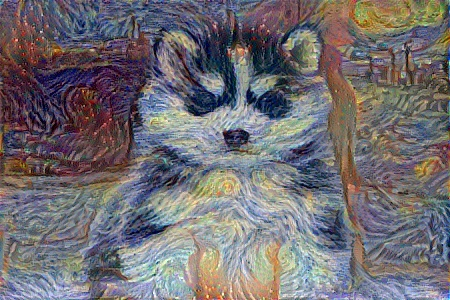
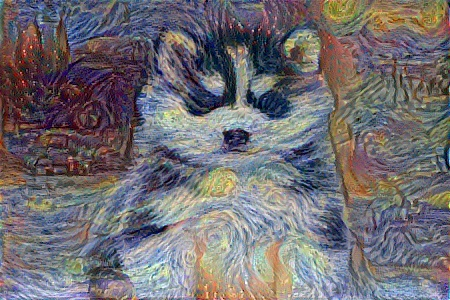
修复图片长、宽颠倒的bug。

diff --git a/keras-bert-emotional-classifier/dataset.py b/keras-bert-emotional-classifier/dataset.py
@@ -1,0 +1,155 @@
+# -*- coding: utf-8 -*-
+# @File    : dataset.py
+# @Author  : AaronJny
+# @Time    : 2020/01/04
+# @Desc    :
+import chardet
+from collections import Counter
+import time
+from bert4keras.tokenizer import Tokenizer, load_vocab
+from bert4keras.snippets import DataGenerator, sequence_padding
+from bert4keras.bert import build_bert_model
+import numpy as np
+import keras
+
+# 预训练的模型参数
+CONFIG_PATH = '/home/aaron/tools/uncased_L-12_H-768_A-12/bert_config.json'
+CHECKPOINT_PATH = '/home/aaron/tools/uncased_L-12_H-768_A-12/bert_model.ckpt'
+DICT_PATH = '/home/aaron/tools/uncased_L-12_H-768_A-12/vocab.txt'
+# 负例样本路径
+NEG_PATH = 'rt-polarity.neg'
+# 正例样本路径
+POS_PATH = 'rt-polarity.pos'
+# 评论最大长度
+MAX_LEN = 256
+# 允许的最小词频
+MIN_WORD_FREQUENCY = 5
+# 数据集划分比例
+TRAIN_SPLIT, DEV_SPLIT = 0.8, 0.1
+
+
+def load_data(path, label):
+    """
+    从给定路径加载数据
+    :param path: 数据路径
+    :param label: 数据标签
+    """
+    # 从文本中读取数据
+    with open(path, 'rb') as f:
+        text_bin = f.read()
+    # 获取文本编码格式
+    encoding = chardet.detect(text_bin)['encoding']
+    # 解码文本
+    text = text_bin.decode(encoding=encoding).lower()
+    # 按行切分数据，并移除超出长度的数据
+    lines = [line for line in text.splitlines()]
+    print(len(lines))
+    _data = []
+    for line in lines:
+        if len(line) <= MAX_LEN - 2:
+            _data.append(line)
+    print(len(_data))
+    _labels = [label] * len(_data)
+    return _data, _labels
+
+
+# 读取全部数据
+all_data, all_labels = [], []
+neg_data, neg_labels = load_data(NEG_PATH, 0)
+all_data.extend(neg_data)
+all_labels.extend(neg_labels)
+pos_data, pos_labels = load_data(POS_PATH, 1)
+all_data.extend(pos_data)
+all_labels.extend(pos_labels)
+# 混洗数据
+seed = int(time.time())
+np.random.seed(seed)
+np.random.shuffle(all_data)
+np.random.seed(seed)
+np.random.shuffle(all_labels)
+# 划分数据集
+samples = len(all_data)
+train_samples = int(samples * TRAIN_SPLIT)
+dev_samples = int(samples * DEV_SPLIT)
+train_data, train_labels = all_data[:train_samples], all_labels[:train_samples]
+dev_data, dev_labels = all_data[train_samples:train_samples + dev_samples], all_labels[
+                                                                            train_samples:train_samples + dev_samples]
+test_data, test_labels = all_data[train_samples + dev_samples:], all_labels[train_samples + dev_samples:]
+
+# 加载预训练模型的词典
+_token_dict = load_vocab(DICT_PATH)
+_tokenizer = Tokenizer(_token_dict, do_lower_case=True)
+print(all_data[0])
+print(_tokenizer.encode(all_data[0]))
+print(_tokenizer.tokenize(all_data[0]))
+print([_tokenizer.id_to_token(21934)])
+print(_tokenizer.token_to_id('[PAD]'))
+
+# 统计数据集中的词频
+counter = Counter()
+for line in all_data:
+    _tokens = _tokenizer.tokenize(line)
+    # 统计词频时，移除[CLS]和[SEP]字符
+    counter.update(_tokens[1:-1])
+print(len(counter))
+# 移除词频较低的词
+_tokens = [token for token, cnt in counter.items() if cnt >= MIN_WORD_FREQUENCY]
+print(len(_tokens))
+# 构建新词典
+_tokens = ['[PAD]', '[UNK]', '[CLS]', '[SEP]'] + _tokens
+keep_words = []
+token_dict = {}
+for token in _tokens:
+    token_dict[token] = len(token_dict)
+    keep_words.append(_token_dict[token])
+# 使用新词典构建分词器
+tokenizer = Tokenizer(token_dict, do_lower_case=True)
+
+
+class MyDataGenerator(DataGenerator):
+
+    def __init__(self, data, labels, batch_size=32):
+        super().__init__(data, batch_size)
+        self.labels = labels
+
+    def __iter__(self, random=True):
+        # 混洗数据
+        if random:
+            seed = int(time.time())
+            np.random.seed(seed)
+            np.random.shuffle(self.data)
+            np.random.seed(seed)
+            np.random.shuffle(self.labels)
+        total = len(self.data)
+        # 迭代整个数据集，每次返回一个mini batch
+        for start in range(0, total, self.batch_size):
+            end = min(start + self.batch_size, total)
+            batch_token_ids = []
+            batch_segment_ids = []
+            for line in self.data[start:end]:
+                _token_ids, _segment_ids = tokenizer.encode(line)
+                batch_token_ids.append(_token_ids)
+                batch_segment_ids.append(_segment_ids)
+            batch_token_ids = sequence_padding(batch_token_ids)
+            batch_segment_ids = sequence_padding(batch_segment_ids)
+            batch_labels = np.reshape(np.array(self.labels[start:end]), (-1, 1))
+            yield [batch_token_ids, batch_segment_ids], batch_labels
+            del batch_labels, batch_token_ids, batch_segment_ids
+
+
+bert_model = build_bert_model(config_path=CONFIG_PATH, checkpoint_path=CHECKPOINT_PATH, keep_words=keep_words)
+# bert_model.trainable = False
+output = keras.layers.Lambda(lambda x: x[:, 0])(bert_model.output)
+output = keras.layers.Dropout(rate=0.5)(output)
+output = keras.layers.Dense(1, activation=keras.activations.sigmoid)(output)
+model = keras.Model(bert_model.input, output)
+model.summary()
+
+train_data_generator = MyDataGenerator(train_data, train_labels)
+dev_data_generator = MyDataGenerator(dev_data, dev_labels)
+test_data_generator = MyDataGenerator(test_data, test_labels)
+
+model.compile(keras.optimizers.Adam(1e-6, decay=1e-4), keras.losses.binary_crossentropy, metrics=['accuracy'])
+model.fit_generator(train_data_generator.forfit(), steps_per_epoch=train_data_generator.steps, epochs=10,
+                    validation_data=dev_data_generator.forfit(), validation_steps=dev_data_generator.steps)
+print(model.evaluate_generator(test_data_generator.forfit(), steps=test_data_generator.steps))

diff --git a/tf2-neural-style-transfer/utils.py b/tf2-neural-style-transfer/utils.py
@@ -31,11 +31,11 @@ def load_images(image_path, width=settings.WIDTH, height=settings.HEIGHT):
     # 解码图片
     x = tf.image.decode_jpeg(x, channels=3)
     # 修改图片大小
-    x = tf.image.resize(x, [width, height])
+    x = tf.image.resize(x, [height, width])
     x = x / 255.
     # 归一化
     x = normalization(x)
-    x = tf.reshape(x, [1, width, height, 3])
+    x = tf.reshape(x, [1, height, width, 3])
     # 返回结果
     return x
 

diff --git a/tf2-neural-style-transfer/train.py b/tf2-neural-style-transfer/train.py
@@ -107,7 +107,7 @@ def total_loss(noise_features):
 optimizer = tf.keras.optimizers.Adam(settings.LEARNING_RATE)
 
 # 基于内容图片随机生成一张噪声图片
-noise_image = tf.Variable((content_image + np.random.uniform(-0.2, 0.2, (1, settings.WIDTH, settings.HEIGHT, 3))) / 2)
+noise_image = tf.Variable((content_image + np.random.uniform(-0.2, 0.2, (1, settings.HEIGHT, settings.WIDTH, 3))) / 2)
 
 
 # 使用tf.function加速训练

diff --git a/tf2-neural-style-transfer/settings.py b/tf2-neural-style-transfer/settings.py
@@ -23,9 +23,9 @@ CONTENT_LOSS_FACTOR = 1
 STYLE_LOSS_FACTOR = 100
 
 # 图片宽度
-WIDTH = 300
+WIDTH = 450
 # 图片高度
-HEIGHT = 450
+HEIGHT = 300
 
 # 训练epoch数
 EPOCHS = 20
